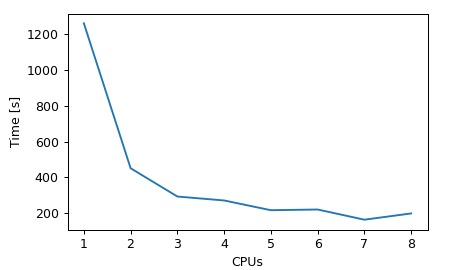
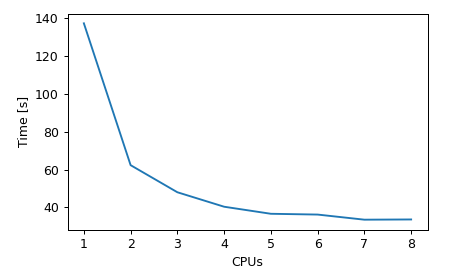
Reduce ndims and pop_size in benchmark 2

diff --git a/modestga/benchmark/benchmark_2_run.py b/modestga/benchmark/benchmark_2_run.py
@@ -33,7 +33,7 @@ if __name__ == "__main__":
     # Options
     options = {
         "generations": 1000,  # Max. number of generations
-        "pop_size": 1000,  # Population size
+        "pop_size": 300,  # Population size
         "tol": 1e-3,  # Solution tolerance
     }
 

diff --git a/README.md b/README.md
@@ -156,7 +156,7 @@ Summary:
 
 ### Number of CPUs vs. computing time
 
-The performance of the parallel optimization was evaluated using a 128-dimensional [Rastrigin function](https://en.wikipedia.org/wiki/Rastrigin_function). Since the function evaluation is quite fast, there was small increase in performance in cases with more than 4 CPUs. The optimum number of CPUs depends mainly on the function evaluation time.
+The performance of the parallel optimization was evaluated using a 64-dimensional [Rastrigin function](https://en.wikipedia.org/wiki/Rastrigin_function). Since the function evaluation is quite fast, there was small increase in performance in cases with more than 3 CPUs. The optimum number of CPUs depends mainly on the function evaluation time.
 
 <p align="center">
 <img src="modestga/benchmark/results/comparison_parallel.png" align="center">
